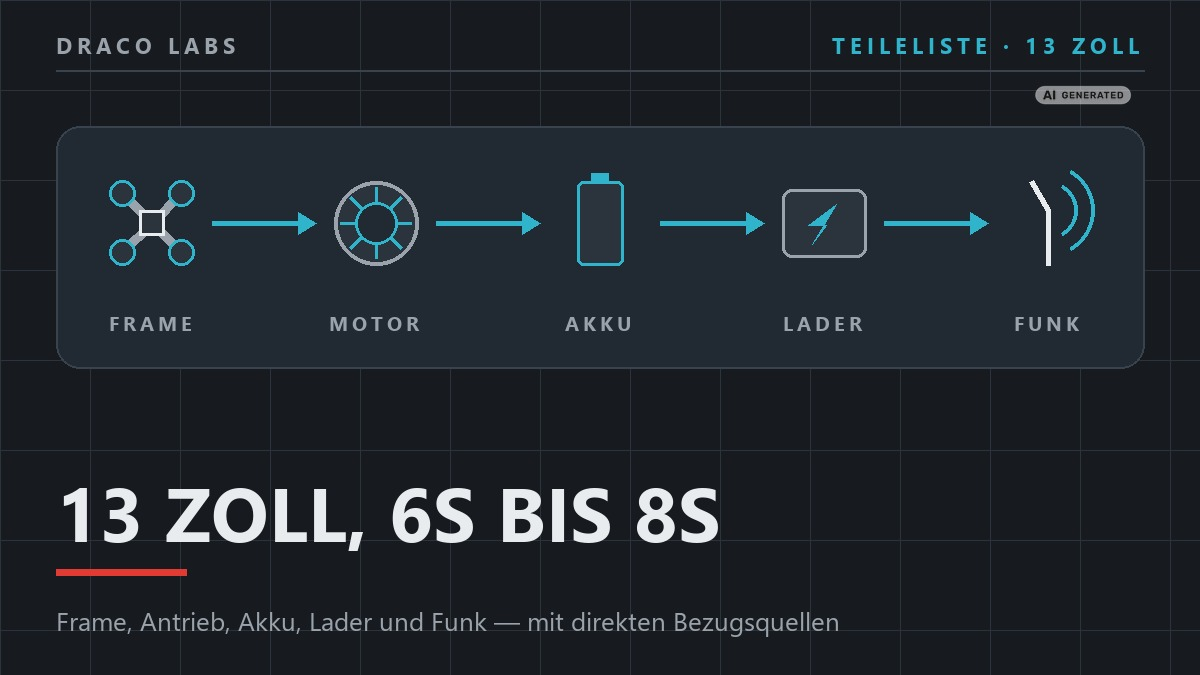
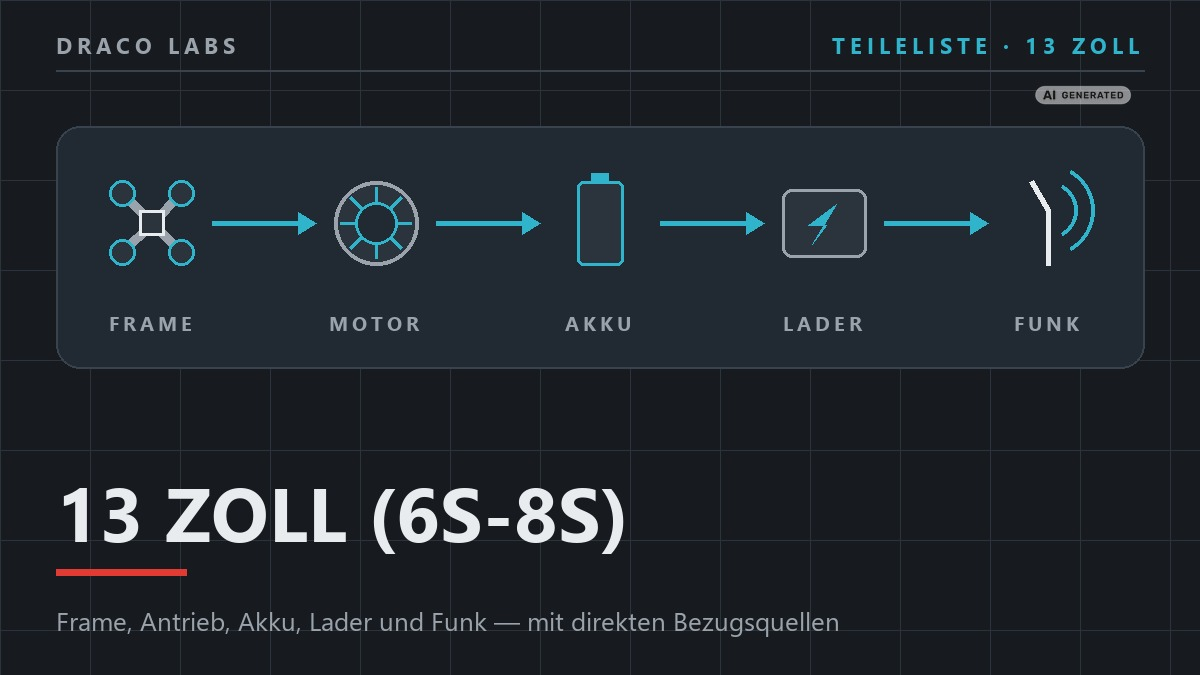
Export-Artikel bekommt einen Aufmacher, zwei Ueberschriften korrigiert
Der Export-Artikel zeigte auf der Kachel sein Schaubild aus Containern und
Zollschranke -- bei 340 px genauso unlesbar wie zuvor die Videostills.  Sein
neuer Aufmacher setzt die Kernaussage als Zahl: keine einzige 13-Zoll-Frame-
Fertigung in Deutschland.  Die Unterzeile nennt die Marktrecherche als Quelle,
weil die Null unsere Zaehlung ist und kein Marktfaktum.

Das alte Schaubild bleibt IM Artikel als <figure> mit seiner Bildunterschrift,
nur die Kachel und die Social-Vorschau wechseln.  DARPA bleibt beim Pressefoto.

Teilelisten: "KOMPLETT" ersatzlos raus, "6S BIS 8S" zu "(6S-8S)".

Changed region(s): [[0.2775, 0.7156, 0.6167, 0.84]]

diff --git a/index.html b/index.html
@@ -169,8 +169,9 @@
     <!-- neuigkeiten:start -->
     <div class="rg-karussell">
       <a class="rg-kachel" href="artikel-exportbeschraenkungen.html">
-        <img src="assets/ratgeber/exportbeschraenkungen-hero.jpg" alt="Schaubild: Containerstapel, geschlossene Zollschranke und dahinter ein Quadrocopter
-             als Werkstatt"
+        <img src="assets/ratgeber/exportbeschraenkungen-hook.jpg" alt="Aufmacher im Draco-Labs-Look: „Dein nächster Frame braucht länger“, darüber eine große
+             Null für 13-Zoll-Frames aus deutscher Fertigung.  Mit KI erstellt, Label
+             „AI GENERATED“ im Bild."
              width="1200" height="675" loading="lazy">
         <div class="rg-text">
           <div class="rg-titel">Exportbeschränkungen</div>
@@ -285,9 +286,9 @@
     <!-- teilelisten:start -->
     <div class="rg-karussell">
       <a class="rg-kachel" href="ratgeber-teileliste-10-zoll.html">
-        <img src="assets/ratgeber/teileliste-10-zoll-hook.jpg" alt="Aufmacher im Draco-Labs-Look: „10 Zoll, 6S, komplett“, darüber ein Symbolstreifen aus
-             Frame, Motor, Prop, Akku und GPS.  Mit KI erstellt, Label „AI GENERATED“
-             im Bild."
+        <img src="assets/ratgeber/teileliste-10-zoll-hook.jpg" alt="Aufmacher im Draco-Labs-Look: „10 Zoll, 6S“, darüber ein Symbolstreifen aus Frame,
+             Motor, Prop, Akku und GPS.  Mit KI erstellt, Label „AI GENERATED“ im
+             Bild."
              width="1200" height="675" loading="lazy">
         <div class="rg-text">
           <div class="rg-titel">10-Zoll-Build (6S)</div>
@@ -297,9 +298,9 @@
         </div>
       </a>
       <a class="rg-kachel" href="ratgeber-teileliste-13-build-1.html">
-        <img src="assets/ratgeber/teileliste-13-hook.jpg" alt="Aufmacher im Draco-Labs-Look: „13 Zoll, 6S bis 8S“, darüber ein Symbolstreifen aus
-             Frame, Motor, Akku, Lader und Funk.  Mit KI erstellt, Label „AI
-             GENERATED“ im Bild."
+        <img src="assets/ratgeber/teileliste-13-hook.jpg" alt="Aufmacher im Draco-Labs-Look: „13 Zoll (6S-8S)“, darüber ein Symbolstreifen aus Frame,
+             Motor, Akku, Lader und Funk.  Mit KI erstellt, Label „AI GENERATED“ im
+             Bild."
              width="1200" height="675" loading="lazy">
         <div class="rg-text">
           <div class="rg-titel">13-Zoll-Build (6S - 8S)</div>

diff --git a/artikel-exportbeschraenkungen.html b/artikel-exportbeschraenkungen.html
@@ -16,7 +16,7 @@
 <meta property="og:title" content="Exportbeschränkungen: Warum dein nächster Frame länger braucht">
 <meta property="og:description" content="Am 5. August 2026 hat China die Drohnen-Exportkontrollen verschärft. Für uns ist das kein Motorenthema, sondern eines, das beim Rahmen ankommt. Was davon bei dir im Warenkorb landet.">
 <meta property="og:url" content="https://dracolabsgermany.com/artikel-exportbeschraenkungen.html">
-<meta property="og:image" content="https://dracolabsgermany.com/assets/ratgeber/exportbeschraenkungen-hero.jpg">
+<meta property="og:image" content="https://dracolabsgermany.com/assets/ratgeber/exportbeschraenkungen-hook.jpg">
 <meta property="og:site_name" content="Draco Labs Germany">
 <meta property="og:locale" content="de_DE">
 
@@ -24,7 +24,7 @@
 <meta name="twitter:card" content="summary_large_image">
 <meta name="twitter:title" content="Exportbeschränkungen: Warum dein nächster Frame länger braucht">
 <meta name="twitter:description" content="Es gibt keinen einzigen 13-Zoll-Frame aus deutscher Fertigung. Was das mit Exportkontrollen zu tun hat.">
-<meta name="twitter:image" content="https://dracolabsgermany.com/assets/ratgeber/exportbeschraenkungen-hero.jpg">
+<meta name="twitter:image" content="https://dracolabsgermany.com/assets/ratgeber/exportbeschraenkungen-hook.jpg">
 
 <link rel="icon" type="image/png" href="assets/emblem.png">
 <link rel="stylesheet" href="style.css">
@@ -36,7 +36,7 @@
   "@type": "Article",
   "headline": "Exportbeschränkungen: Warum dein nächster Frame länger braucht",
   "description": "Chinas Exportkontrollen, die EU-Güterliste und ein Markt, auf dem es keinen einzigen 13-Zoll-Frame aus deutscher Fertigung gibt. Warum uns die Regulatorik ausgerechnet beim Rahmen trifft.",
-  "image": "https://dracolabsgermany.com/assets/ratgeber/exportbeschraenkungen-hero.jpg",
+  "image": "https://dracolabsgermany.com/assets/ratgeber/exportbeschraenkungen-hook.jpg",
   "datePublished": "2026-08-14",
   "dateModified": "2026-08-15",
   "author": { "@type": "Organization", "name": "Draco Labs Germany" },
